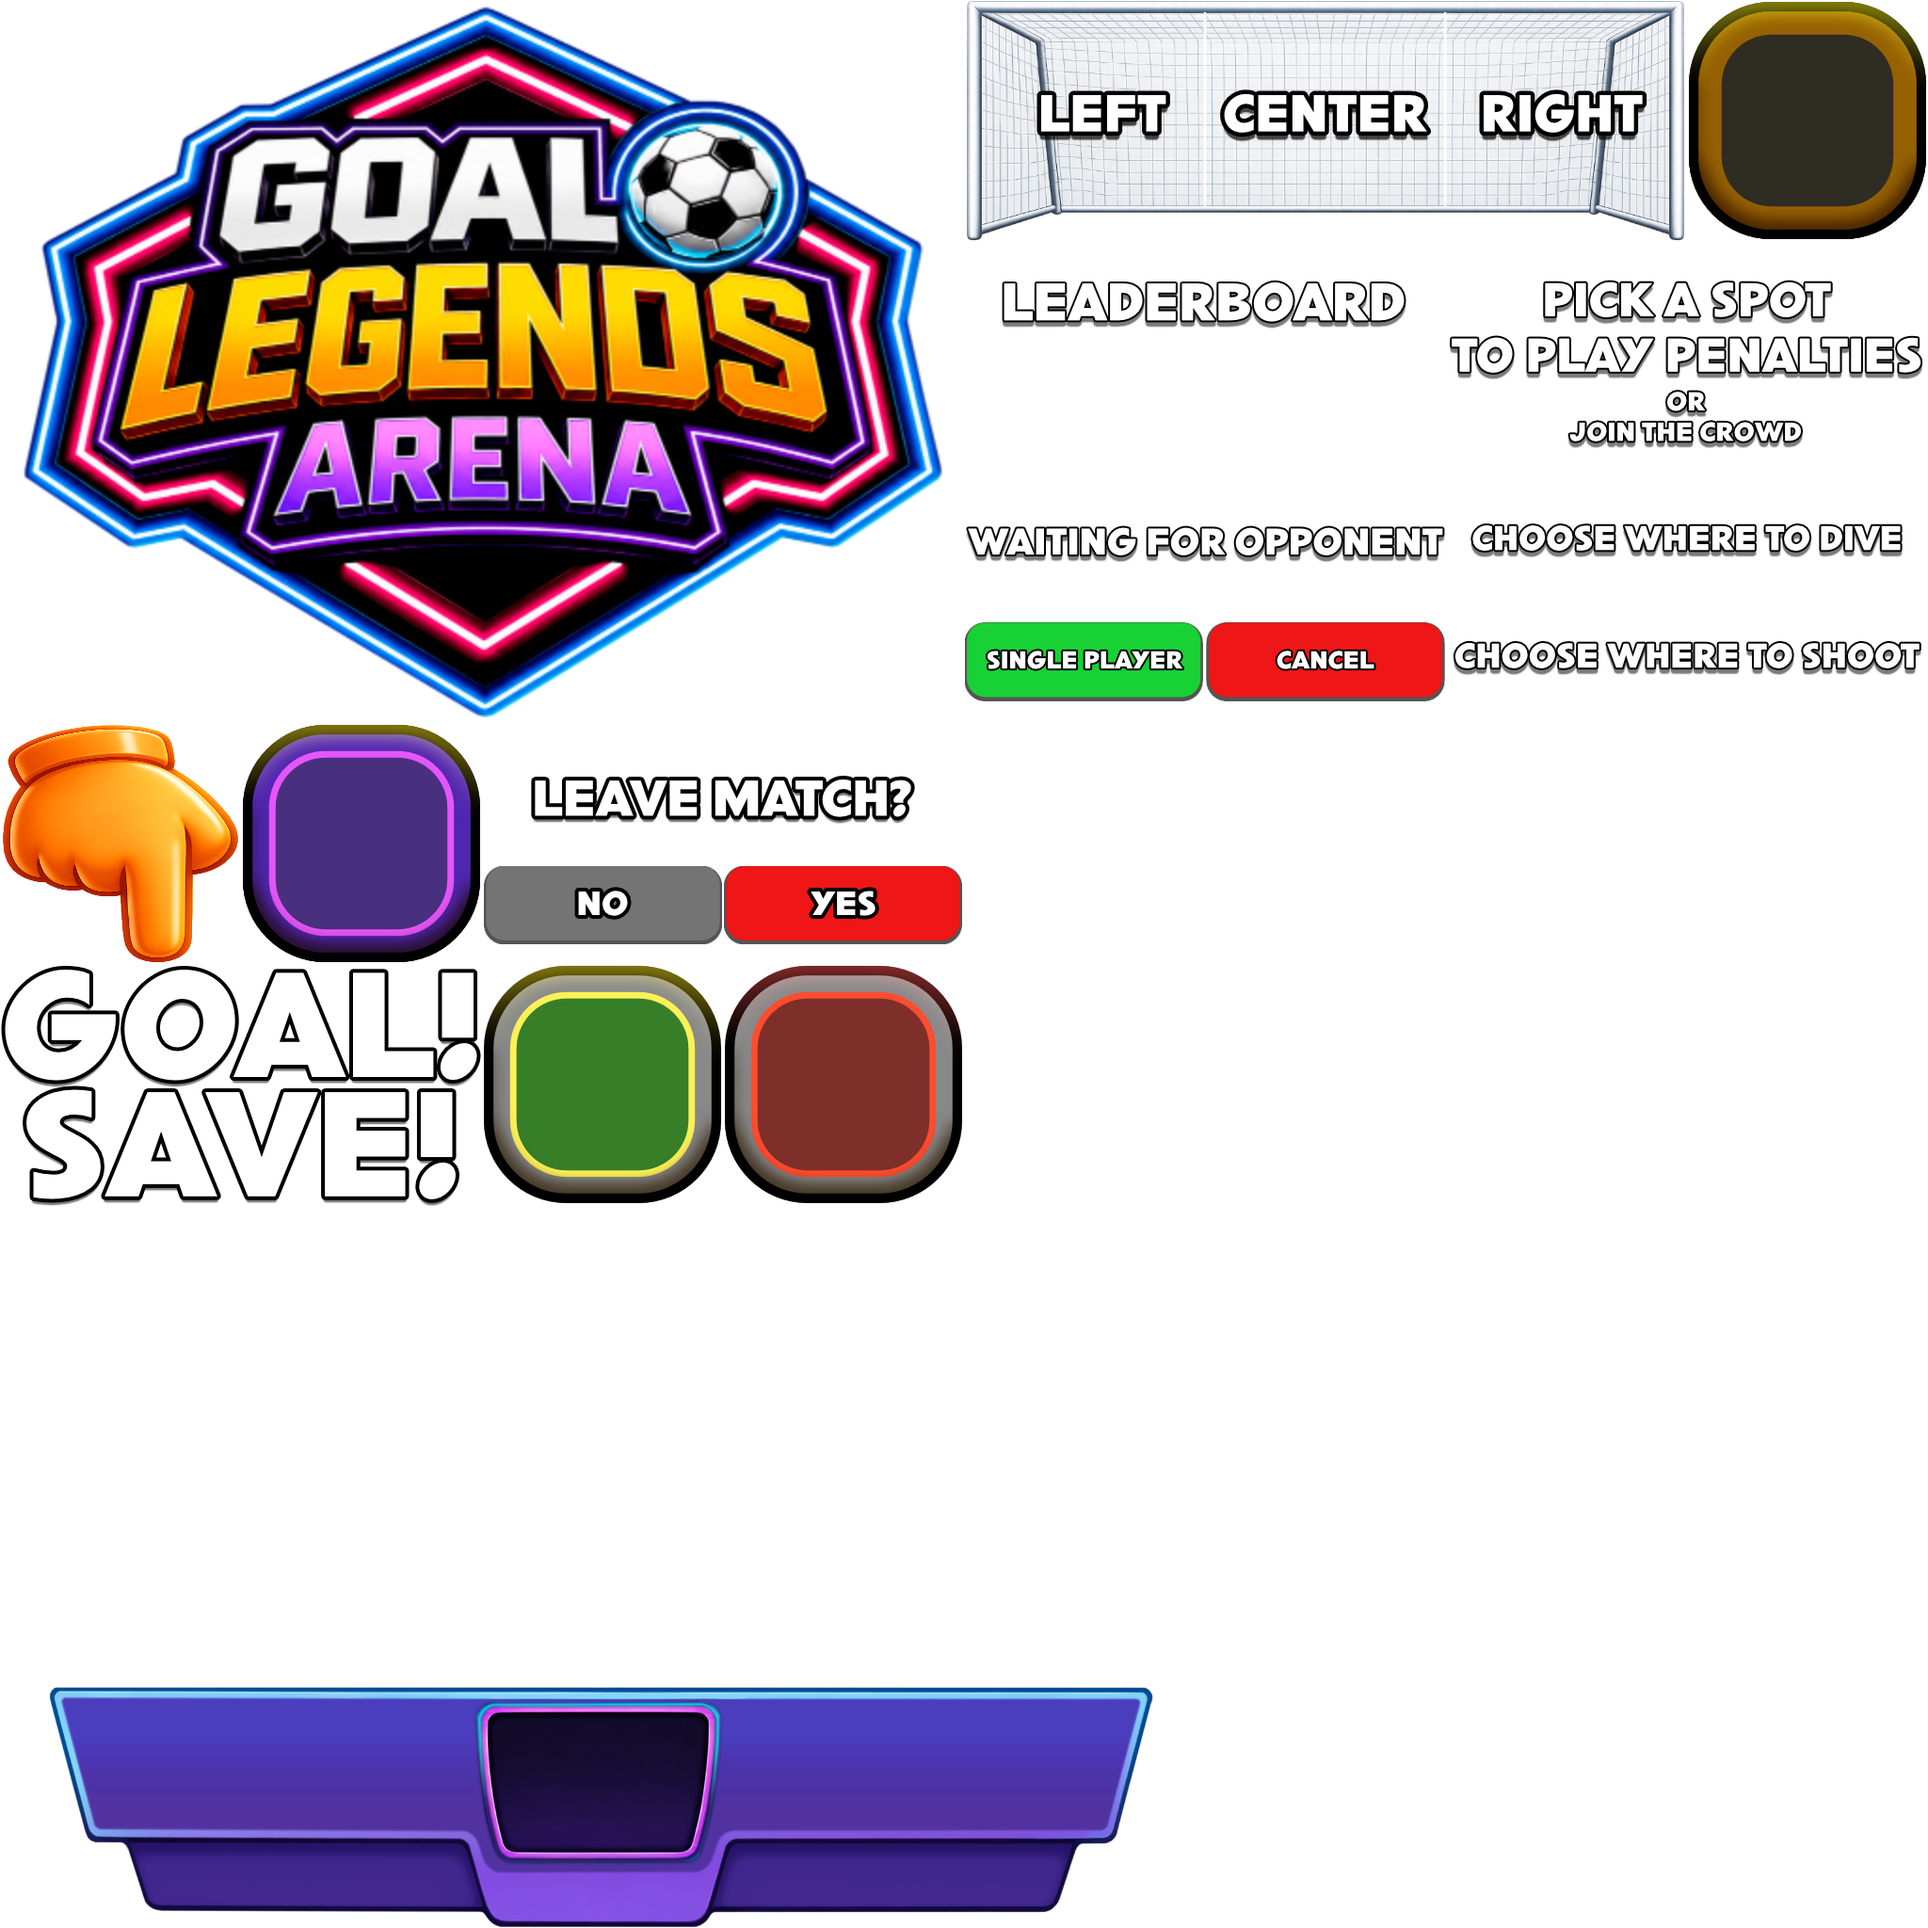
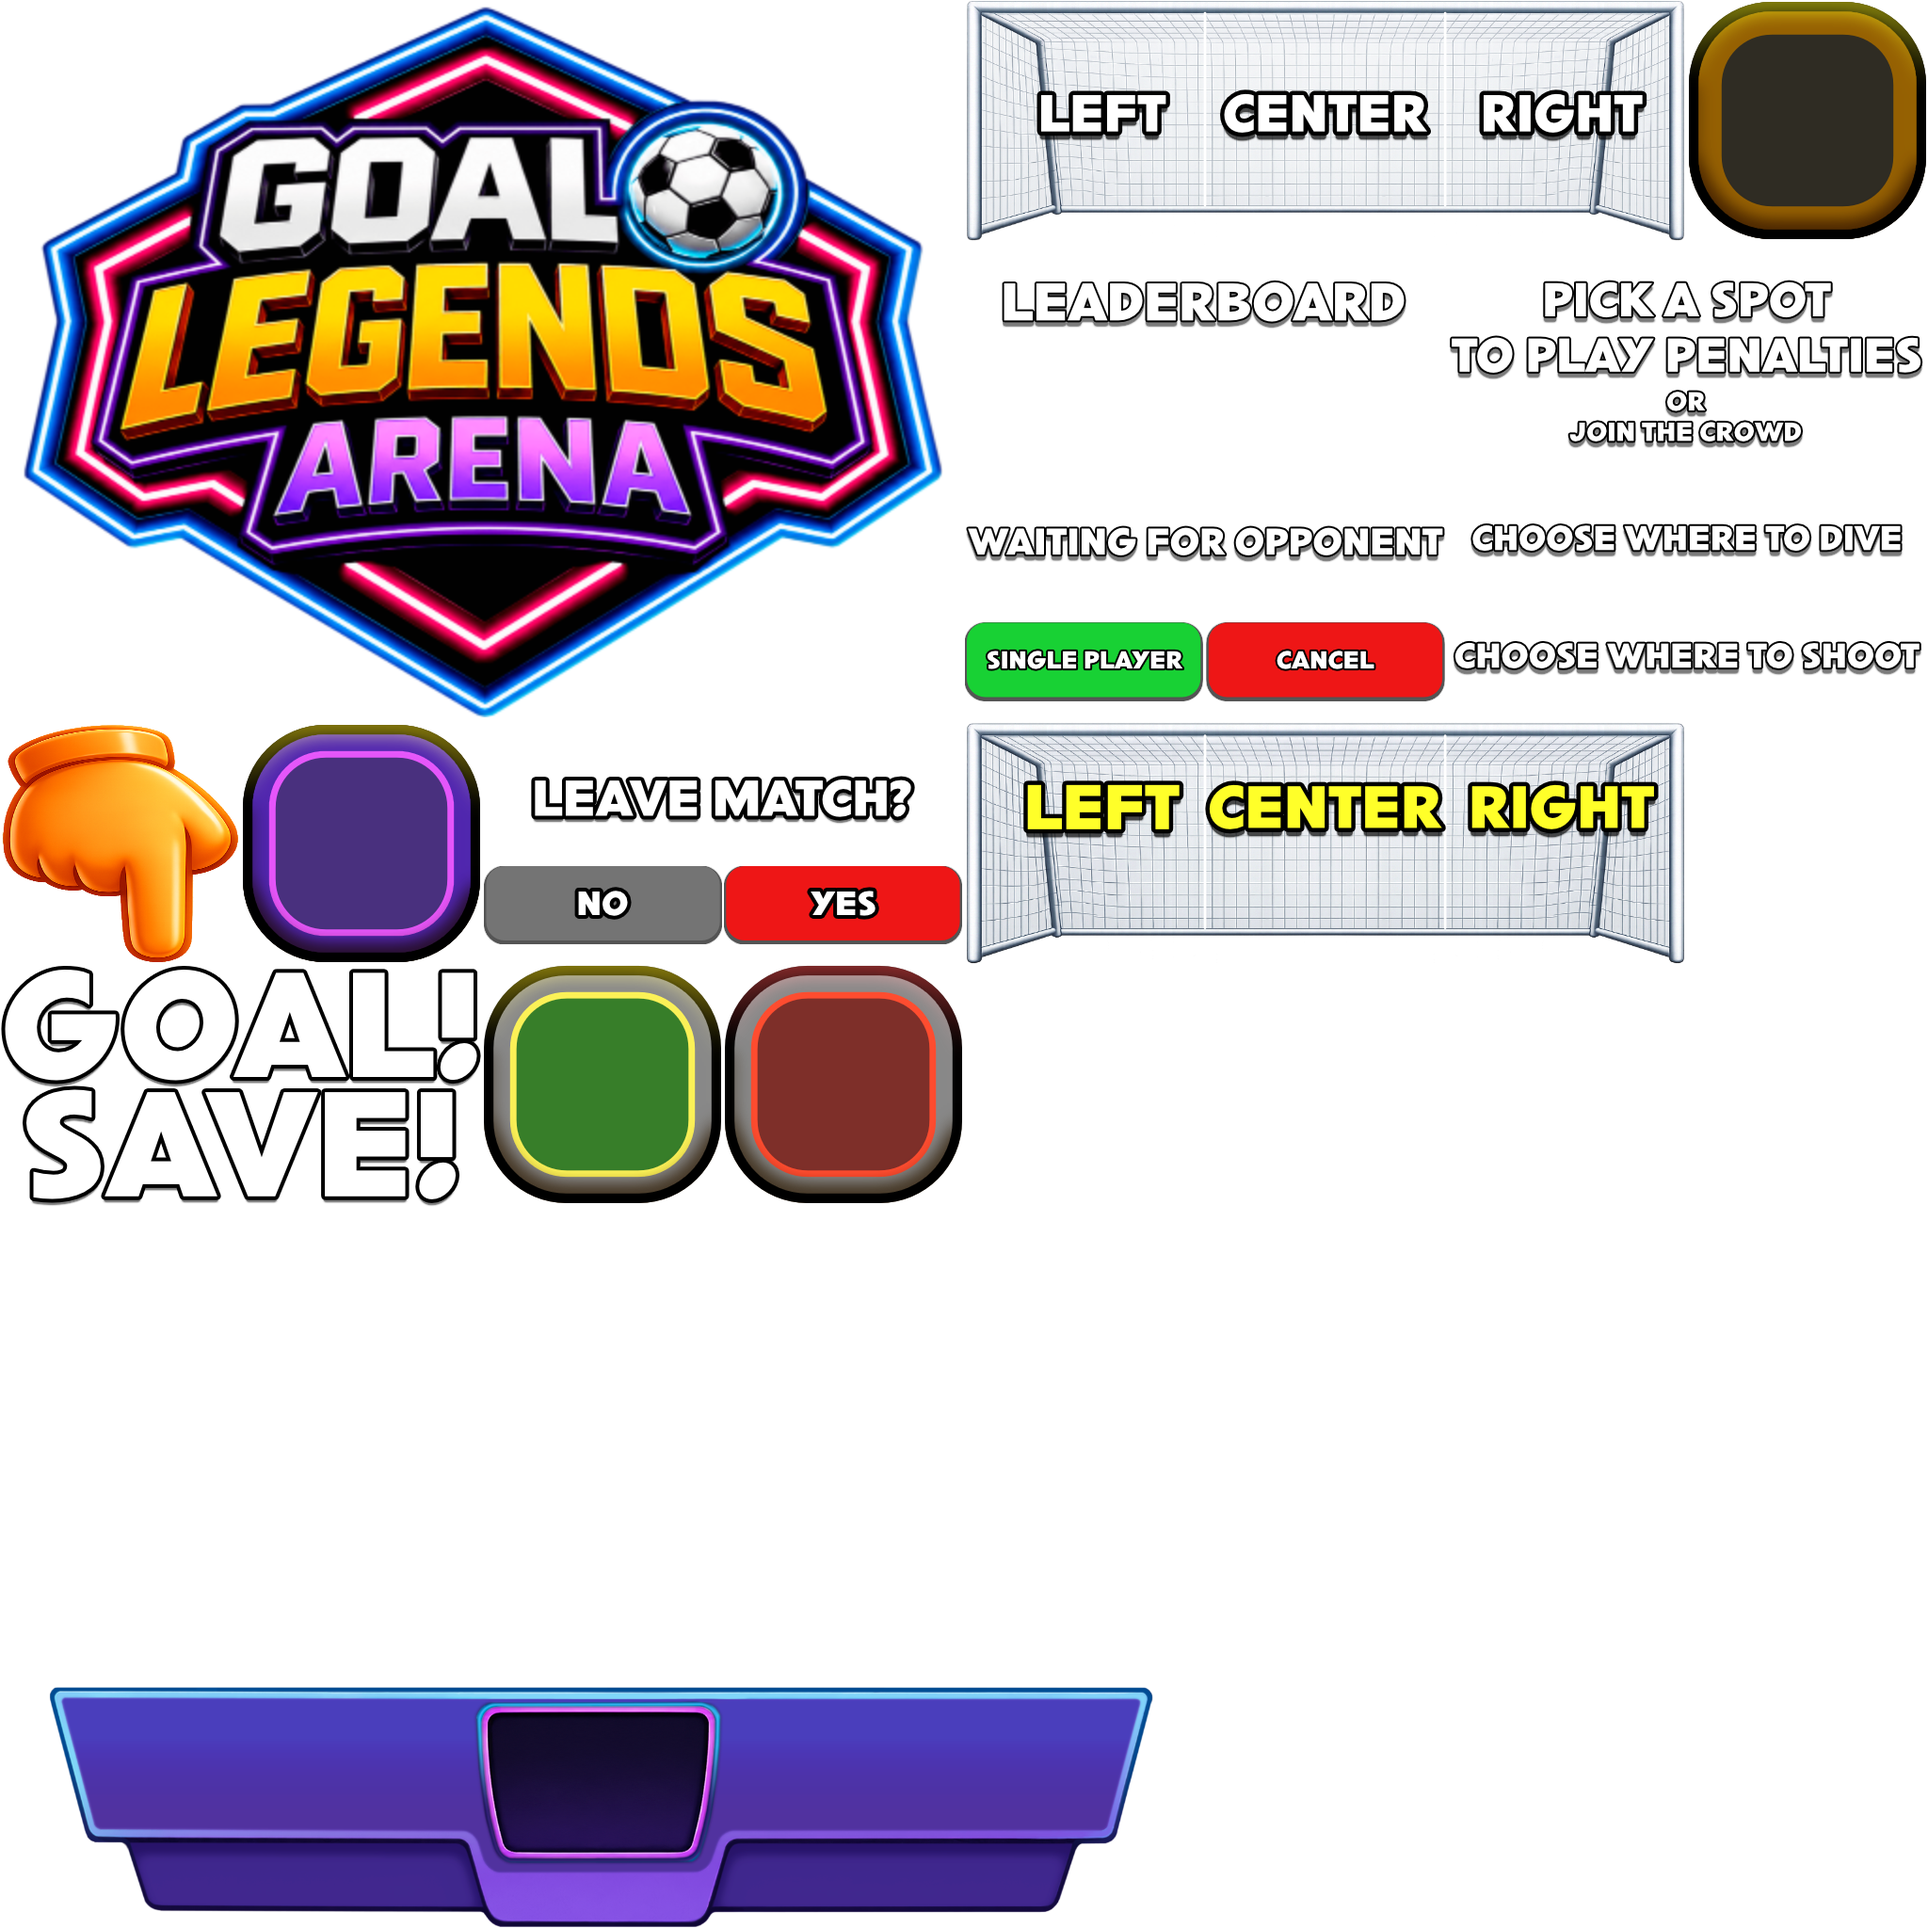
Improve Pick Directions Feedback

Changed region(s): [[0.5, 0.375, 0.875, 0.5]]

diff --git a/src/client/uiManager.tsx b/src/client/uiManager.tsx
@@ -30,7 +30,8 @@ import {
   scoreboardBadgeF7Background,
   scoreboardBadgeH7Background,
   scoreboardBadgeE7Background,
-  splashStartButtonBackground
+  splashStartButtonBackground,
+  atlasCellBackground
 } from './countryStore'
 import {
   logoBackground,
@@ -41,6 +42,9 @@ import {
   pickDirectionLeftBackground,
   pickDirectionCenterBackground,
   pickDirectionRightBackground,
+  pickDirectionLeftSelectedBackground,
+  pickDirectionCenterSelectedBackground,
+  pickDirectionRightSelectedBackground,
   waitingOpponentTitleBackground,
   waitingOpponentPvEButtonBackground,
   waitingOpponentCancelButtonBackground,
@@ -264,6 +268,8 @@ const LEADERBOARD_PANEL_WIDTH_MOBILE_VW = 45
 // Pick sizes use isMobile() inside RootUi only — not at module load (Creator Hub loads as desktop).
 const PICK_BTN_TINT_IDLE = 0.72
 const PICK_BTN_TINT_HOVER = 1
+/** flags.png atlas cell for the "selected" badge drawn over the chosen L/C/R button. */
+const PICK_SELECTED_BADGE_COORD = 'H8'
 
 let lbShowUntilMs = 0
 const LEADERBOARD_TOP_N = 10
@@ -295,6 +301,9 @@ let welcomeChooseSpotDismissed = false
 let hoverPickL = false
 let hoverPickC = false
 let hoverPickR = false
+/** Direction the local player picked this round; null until clicked. Drives the H8
+ *  "selected" badge drawn over the chosen L/C/R button. Reset each round. */
+let selectedPickDir: 'L' | 'C' | 'R' | null = null
 let hoverWaitPvE = false
 let hoverWaitCancel = false
 let hoverSplashStart = false
@@ -368,6 +377,9 @@ const lbRows = getLeaderboardRows(s.leaderboardJson, LEADERBOARD_TOP_N)
     // Reveal the prompts a beat after the leaderboard auto-hides.
     promptsShowAfterMs = lbShowUntilMs + SPOT_PROMPT_DELAY_MS
   }
+  // Clear the picked direction when the pick window closes, so the badge only shows
+  // on the chosen button during SelectingDirections and resets each round.
+  if (s.phase !== GameState.SelectingDirections) selectedPickDir = null
   prevPhase = s.phase
   const showLeaderboard = Date.now() < lbShowUntilMs
   const showCountryPicker = isPickerOpen()
@@ -439,6 +451,21 @@ const lbRows = getLeaderboardRows(s.leaderboardJson, LEADERBOARD_TOP_N)
     pickBtnHeight
   const pickPanelOuterHeightPx = pickPanelContentHeightPx + pickPanelBgShiftDownPx
 
+  // "Selected" badge (flags.png H8) drawn as a child of the chosen L/C/R button.
+  // For now: centered on X, anchored to the button's bottom (bottom: 0). Tweak here.
+  const pickBadgeSize = Math.floor(pickBtnWidth * 0.45)
+  const pickSelectedBadge = () => (
+    <UiEntity
+      uiTransform={{
+        positionType: 'absolute',
+        position: { bottom: 0, left: Math.floor((pickBtnWidth - pickBadgeSize) / 2) },
+        width: pickBadgeSize,
+        height: pickBadgeSize
+      }}
+      uiBackground={atlasCellBackground(PICK_SELECTED_BADGE_COORD)}
+    />
+  )
+
   const pickDirectionPanel = (titleBg: ReturnType<typeof pickDirectionTitleDiveBackground>) => (
     <UiEntity
       uiTransform={{
@@ -496,39 +523,42 @@ const lbRows = getLeaderboardRows(s.leaderboardJson, LEADERBOARD_TOP_N)
           alignItems: 'center'
         }}
       >
-        <Button
-          value=""
-          uiTransform={{ width: pickBtnWidth, height: pickBtnHeight }}
+        <UiEntity
+          uiTransform={{ width: pickBtnWidth, height: pickBtnHeight, positionType: 'relative' }}
           uiBackground={{
-            ...pickDirectionLeftBackground(),
+            ...(selectedPickDir === 'L' ? pickDirectionLeftSelectedBackground() : pickDirectionLeftBackground()),
             color: Color4.create(1, 1, 1, hoverPickL ? PICK_BTN_TINT_HOVER : PICK_BTN_TINT_IDLE)
           }}
-          onMouseDown={() => room.send('submitDirection', { dir: 'L' })}
+          onMouseDown={() => { selectedPickDir = 'L'; room.send('submitDirection', { dir: 'L' }) }}
           onMouseEnter={() => { hoverPickL = true }}
           onMouseLeave={() => { hoverPickL = false }}
-        />
-        <Button
-          value=""
-          uiTransform={{ width: pickBtnWidth, height: pickBtnHeight }}
+        >
+          {selectedPickDir === 'L' && pickSelectedBadge()}
+        </UiEntity>
+        <UiEntity
+          uiTransform={{ width: pickBtnWidth, height: pickBtnHeight, positionType: 'relative' }}
           uiBackground={{
-            ...pickDirectionCenterBackground(),
+            ...(selectedPickDir === 'C' ? pickDirectionCenterSelectedBackground() : pickDirectionCenterBackground()),
             color: Color4.create(1, 1, 1, hoverPickC ? PICK_BTN_TINT_HOVER : PICK_BTN_TINT_IDLE)
           }}
-          onMouseDown={() => room.send('submitDirection', { dir: 'C' })}
+          onMouseDown={() => { selectedPickDir = 'C'; room.send('submitDirection', { dir: 'C' }) }}
           onMouseEnter={() => { hoverPickC = true }}
           onMouseLeave={() => { hoverPickC = false }}
-        />
-        <Button
-          value=""
-          uiTransform={{ width: pickBtnWidth, height: pickBtnHeight }}
+        >
+          {selectedPickDir === 'C' && pickSelectedBadge()}
+        </UiEntity>
+        <UiEntity
+          uiTransform={{ width: pickBtnWidth, height: pickBtnHeight, positionType: 'relative' }}
           uiBackground={{
-            ...pickDirectionRightBackground(),
+            ...(selectedPickDir === 'R' ? pickDirectionRightSelectedBackground() : pickDirectionRightBackground()),
             color: Color4.create(1, 1, 1, hoverPickR ? PICK_BTN_TINT_HOVER : PICK_BTN_TINT_IDLE)
           }}
-          onMouseDown={() => room.send('submitDirection', { dir: 'R' })}
+          onMouseDown={() => { selectedPickDir = 'R'; room.send('submitDirection', { dir: 'R' }) }}
           onMouseEnter={() => { hoverPickR = true }}
           onMouseLeave={() => { hoverPickR = false }}
-        />
+        >
+          {selectedPickDir === 'R' && pickSelectedBadge()}
+        </UiEntity>
       </UiEntity>
       </UiEntity>
     </UiEntity>

diff --git a/src/client/uiAtlasStore.ts b/src/client/uiAtlasStore.ts
@@ -74,6 +74,19 @@ export function pickDirectionRightBackground() {
   return uiAtlasRangeBackground('G1', 'G1')
 }
 
+/** Selected-state sprites for the L/C/R buttons (E1/F1/G1 → E4/F4/G4). */
+export function pickDirectionLeftSelectedBackground() {
+  return uiAtlasRangeBackground('E4', 'E4')
+}
+
+export function pickDirectionCenterSelectedBackground() {
+  return uiAtlasRangeBackground('F4', 'F4')
+}
+
+export function pickDirectionRightSelectedBackground() {
+  return uiAtlasRangeBackground('G4', 'G4')
+}
+
 function uiAtlasRangeHalfBackground(from: string, to: string, useTopHalf: boolean) {
   const fullUvs = uiAtlasRangeToUvs(from, to)
   const u0 = fullUvs[0]
